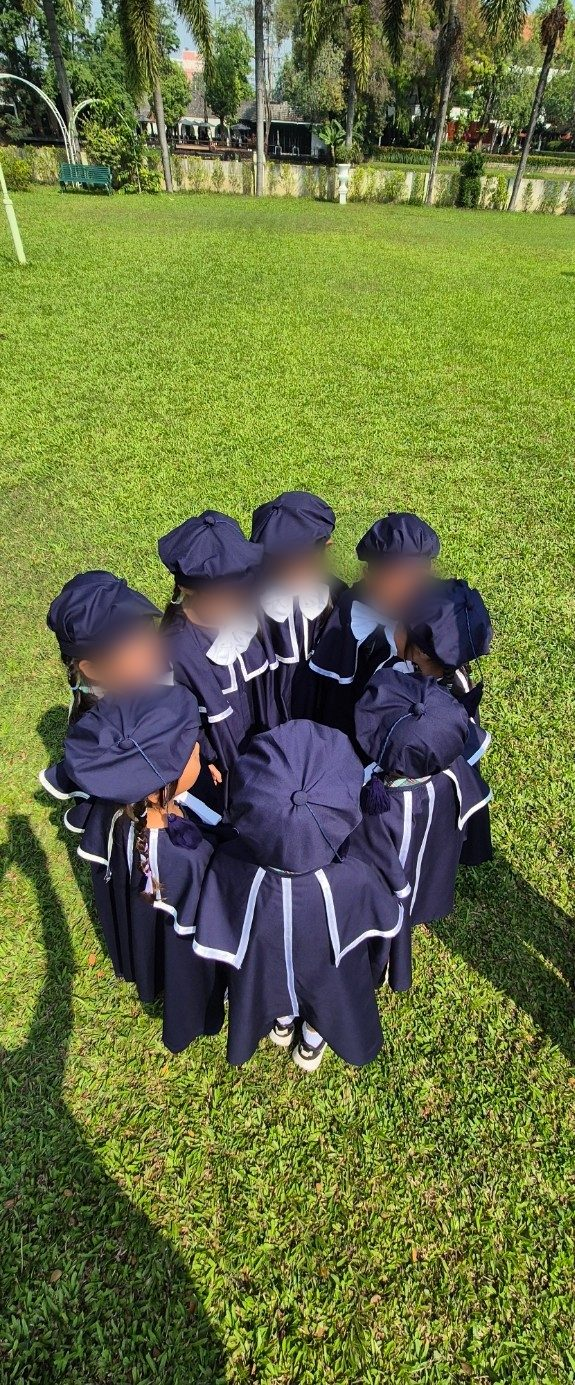
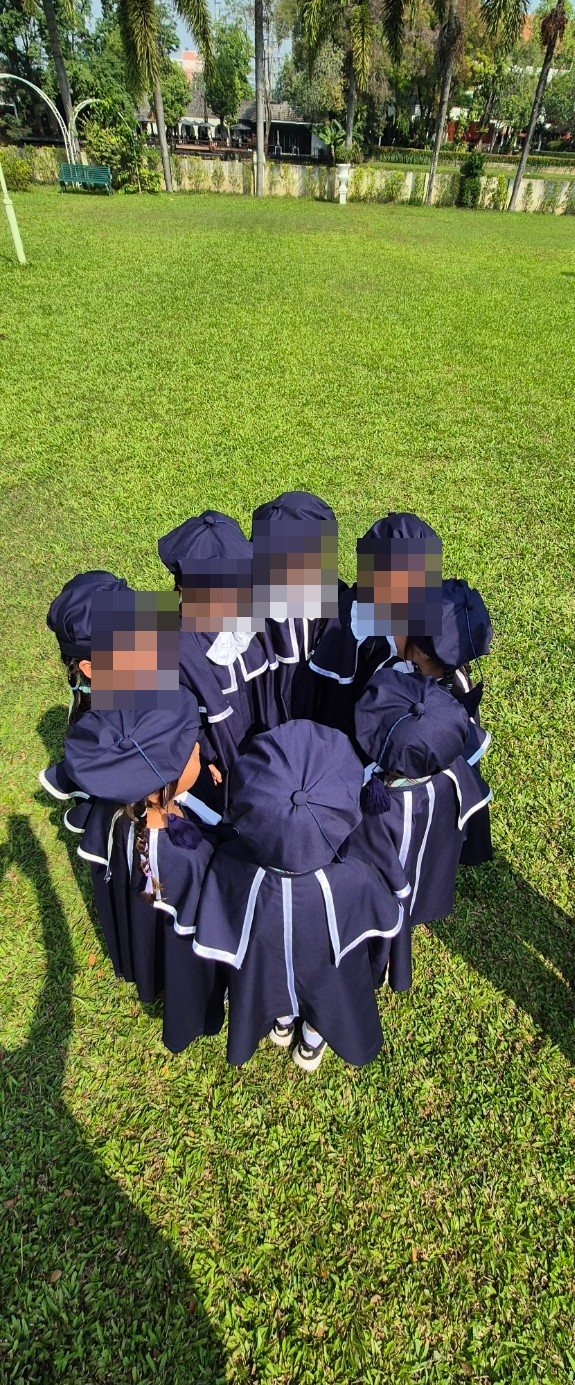
K3 졸업식 사진 4장 공개 (아이들 얼굴 모자이크) (#12)
* Add pre-contract preparation docs for EULOGIA CHIANGMAI website

Audit of the existing eulogia.ac.th site, competitor school site analysis,
client question sheet, material request list, sitemap and feature spec,
existing content inventory with Korean draft translations, design
guidelines, risk register, launch checklist, notice drafts, and data
files for the 2026-2027 school calendar and old-URL redirect map.

Claude-Session: https://claude.ai/code/session_01UqqFWdftryuh36CsCScj5v

* Narrow client questions to baht payment and domain; add PG and DNS findings

Content follows the client's production materials, so the question sheet
now asks only the two pre-contract items. Risk notes add Thai PG options
(Opn Payments, Stripe Thailand) with onboarding requirements and the
eulogia.ac.th DNS/hosting lookup (Movaci nameservers, self-hosted mail).

Claude-Session: https://claude.ai/code/session_01UqqFWdftryuh36CsCScj5v

* Record school license findings; drop personal ID number from docs

The registration number on the application is the representative's
personal Thai national ID, not a business number, so it is removed from
all docs and excluded from the site footer. Risk notes now reflect that
the licensee is Global Eulogia Co., Ltd. (corporate PG onboarding), and
add a section on school naming versus the non-formal school license.

Claude-Session: https://claude.ai/code/session_01UqqFWdftryuh36CsCScj5v
[…]

Changed region(s): [[0.1183, 0.3726, 0.7983, 0.5278]]

diff --git a/index.html b/index.html
@@ -375,10 +375,10 @@
     </div>
   </section>
 
-  <!-- 6b-2. 학교 생활: K3 졸업식 (얼굴이 나온 사진은 private/, 공개 사이트에는 얼굴을 흐린 사진만) -->
+  <!-- 6b-2. 학교 생활: K3 졸업식 (아이들 얼굴은 모자이크) -->
   <section class="section band follow" id="life" aria-labelledby="life-title" data-nav="about">
     <div class="wrap">
-      <div class="life only-public" id="life-grid">
+      <div class="life" id="life-grid">
         <div class="life-text">
           <p class="kicker" lang="en">School Life</p>
           <h2 id="life-title">유아반 K3 졸업식</h2>
@@ -386,9 +386,9 @@
           <p>유아반 과정을 마친 K3 아이들이 졸업 가운과 모자를 쓰고 한 사람씩 졸업장을 받았습니다.</p>
         </div>
         <figure class="lf lf-huddle"><img src="assets/img/k3-huddle.jpg" alt="졸업 가운과 모자를 쓰고 잔디밭에 둥글게 모인 K3 아이들" loading="lazy" decoding="async" width="575" height="1385"></figure>
-        <figure class="lf lf-lawn" data-private hidden><img data-src="assets/img/private/k3-lawn.jpg" alt="졸업 가운을 입고 잔디밭에 나란히 엎드린 K3 아이들" width="1385" height="640"></figure>
-        <figure class="lf lf-stage" data-private hidden><img data-src="assets/img/private/k3-stage.jpg" alt="졸업장을 들고 무대에 선 K3 아이들과 선생님들" width="960" height="1280"></figure>
-        <figure class="lf lf-cere" data-private hidden><img data-src="assets/img/private/k3-ceremony.jpg" alt="Congratulations 현수막 아래에서 진행되는 졸업식" width="960" height="1280"></figure>
+        <figure class="lf lf-lawn"><img src="assets/img/k3-lawn.jpg" loading="lazy" decoding="async" alt="졸업 가운을 입고 잔디밭에 나란히 엎드린 K3 아이들" width="1385" height="640"></figure>
+        <figure class="lf lf-stage"><img src="assets/img/k3-stage.jpg" loading="lazy" decoding="async" alt="졸업장을 들고 무대에 선 K3 아이들과 선생님들" width="960" height="1280"></figure>
+        <figure class="lf lf-cere"><img src="assets/img/k3-ceremony.jpg" loading="lazy" decoding="async" alt="Congratulations 현수막 아래에서 진행되는 졸업식" width="960" height="1280"></figure>
       </div>
     </div>
   </section>

diff --git a/assets/css/style.css b/assets/css/style.css
@@ -920,10 +920,6 @@ td.yr { font-variant-numeric: tabular-nums; font-weight: 700; white-space: nowra
 .lf-stage img { object-position: 50% 66%; }
 .lf-cere { grid-column: 3; grid-row: 2; }
 .lf-cere img { object-position: 50% 74%; }
-/* 공개 사이트: 얼굴을 흐린 사진 한 장 + 글 */
-.life.only-public { grid-template-columns: minmax(0, 1fr) minmax(0, 360px); grid-template-rows: auto; align-items: center; column-gap: var(--g); }
-.life.only-public .life-text { grid-column: 1; grid-row: 1; align-self: center; }
-.life.only-public .lf-huddle { grid-column: 2; grid-row: 1; aspect-ratio: 4 / 5; }
 @media (max-width: 759px) {
   .life { grid-template-columns: repeat(2, minmax(0, 1fr)); grid-template-rows: none; grid-auto-rows: auto; }
   .life-text { grid-column: 1 / -1; grid-row: 1; padding: 0; }
@@ -932,6 +928,4 @@ td.yr { font-variant-numeric: tabular-nums; font-weight: 700; white-space: nowra
   .lf-huddle { grid-column: 1 / -1; grid-row: auto; aspect-ratio: 4 / 3; }
   .lf-huddle img { object-position: 50% 48%; }
   .lf-lawn { order: 1; } .lf-stage, .lf-cere { order: 2; } .lf-huddle { order: 3; }
-  .life.only-public { grid-template-columns: minmax(0, 1fr); }
-  .life.only-public .lf-huddle { grid-column: 1; grid-row: 2; aspect-ratio: 4 / 3; }
 }

diff --git a/assets/js/main.js b/assets/js/main.js
@@ -162,20 +162,6 @@
     setText("summary-meta", results.length + "곳 · " + total + "명");
   }
 
-  /* 학교 생활: 미리보기에만 있는 사진(private/)은 불러와지면 보여 주고, 없으면 공개 사진만으로 배치 */
-  var lifeGrid = document.getElementById("life-grid");
-  if (lifeGrid) {
-    lifeGrid.querySelectorAll("[data-private] img[data-src]").forEach(function (im) {
-      var t = new Image();
-      t.onload = function () {
-        im.src = im.getAttribute("data-src");
-        im.closest("figure").hidden = false;
-        lifeGrid.classList.remove("only-public");
-      };
-      t.src = im.getAttribute("data-src");
-    });
-  }
-
   /* 진학 실적 펼치기: #results 로 가는 링크, 주소의 #results */
   var resDetails = document.getElementById("results");
   var openResults = function (scroll) {
